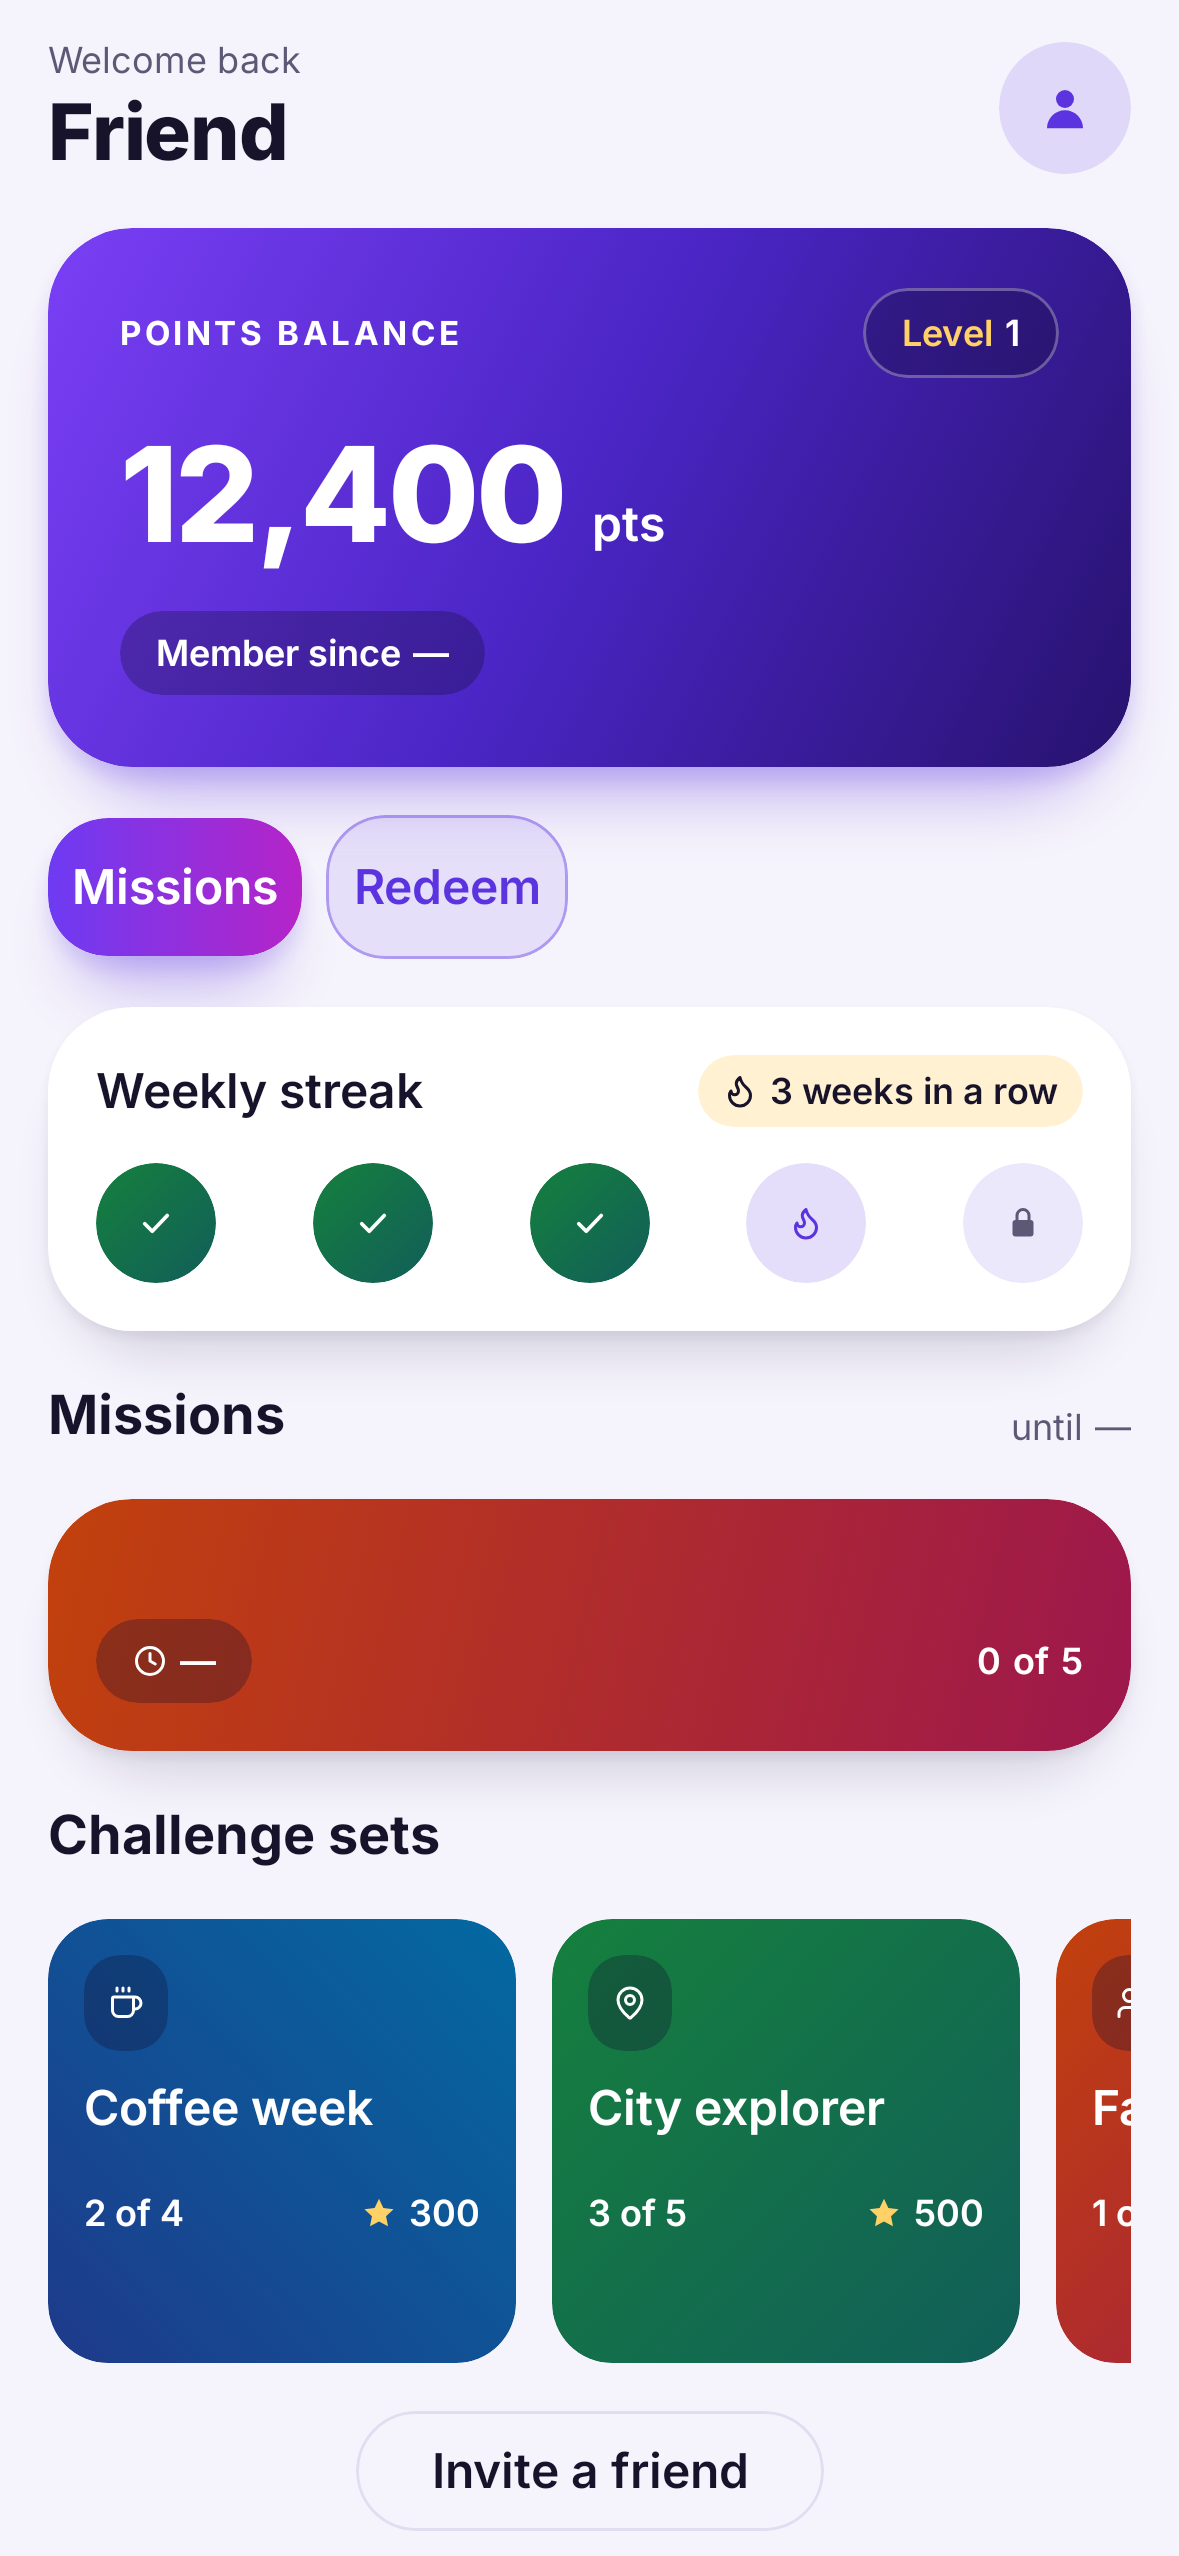
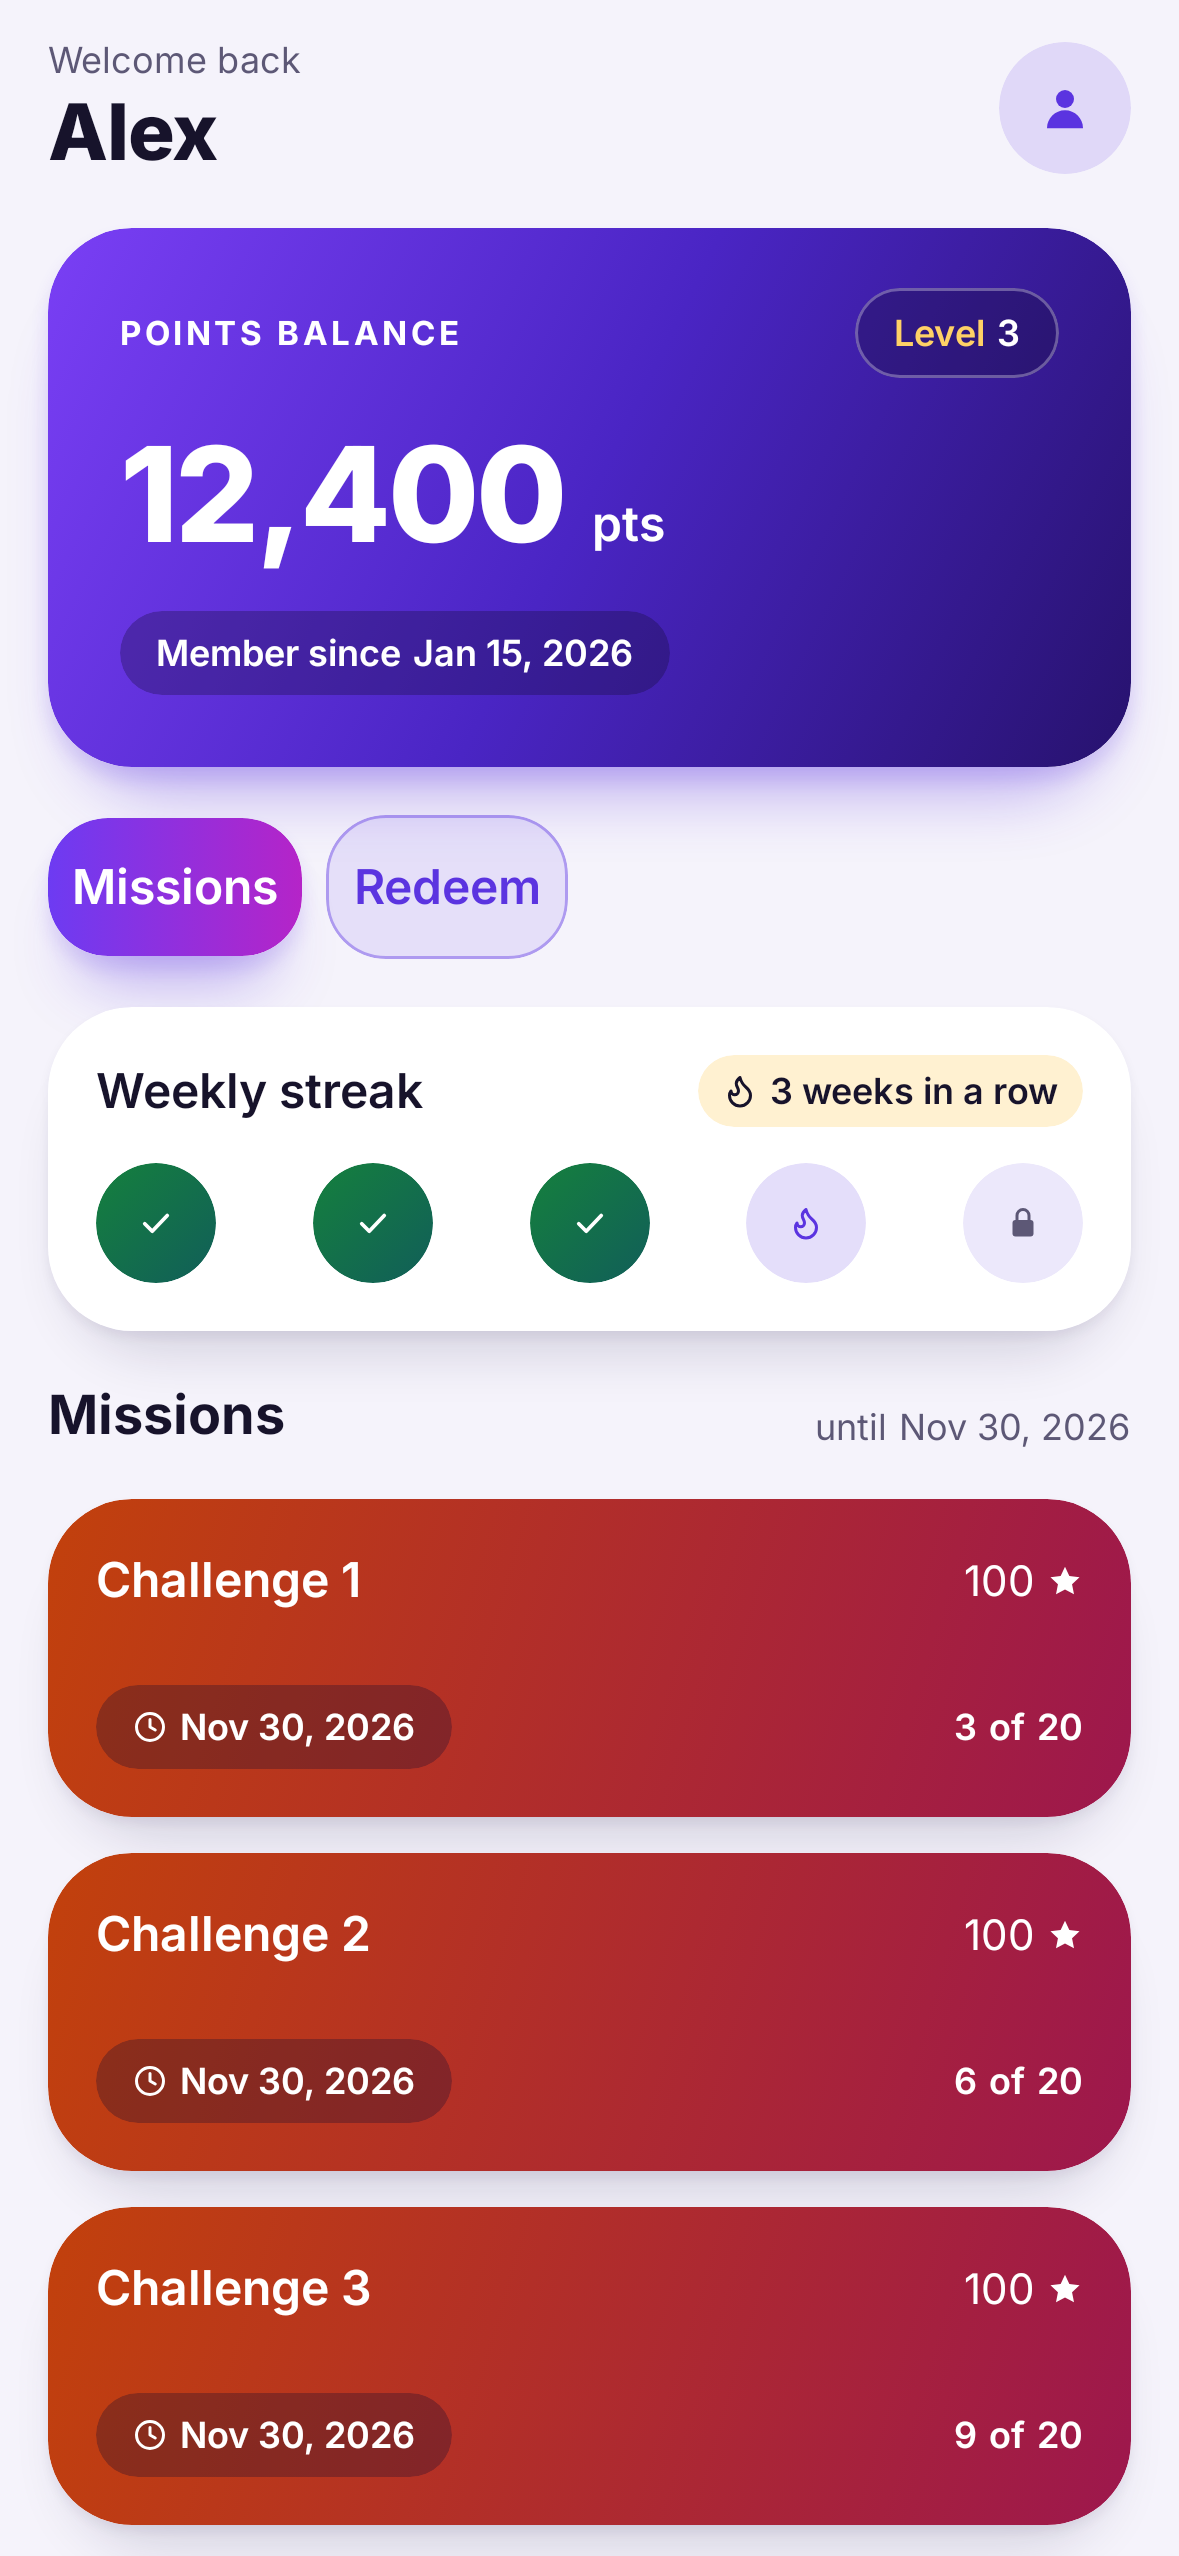
Rows: a child that is not shrunk is bound by the row, not by its natural width; frames re-recorded

diff --git a/hotlayout/src/main/kotlin/com/hotlayout/render/layout/AlignedLayouts.kt b/hotlayout/src/main/kotlin/com/hotlayout/render/layout/AlignedLayouts.kt
@@ -189,7 +189,12 @@ private class RowPolicy(
         }
         val placeables = measurables.mapIndexed { index, child ->
             val width = widths[index].roundToInt()
-            if (available != null && flows[index].weight != null) child.measure(Constraints.fixedWidth(width)) else child.measure(Constraints(maxWidth = width))
+            when {
+                available != null && flows[index].weight != null -> child.measure(Constraints.fixedWidth(width))
+                // A child that was not shrunk is only bound by the row (content that is not its natural width, such as an overlay, must not be cut to it).
+                widths[index] >= natural[index] - 0.5 && flows[index].kind != RowKind.Named -> child.measure(Constraints(maxWidth = limit?.roundToInt() ?: Constraints.Infinity))
+                else -> child.measure(Constraints(maxWidth = width))
+            }
         }
         val hasShares = available != null && flows.any { it.weight != null }
         val contentWidth = placeables.sumOf { it.width.toDouble() } + gapPx * maxOf(0, placeables.size - 1) - pulls.sum()
